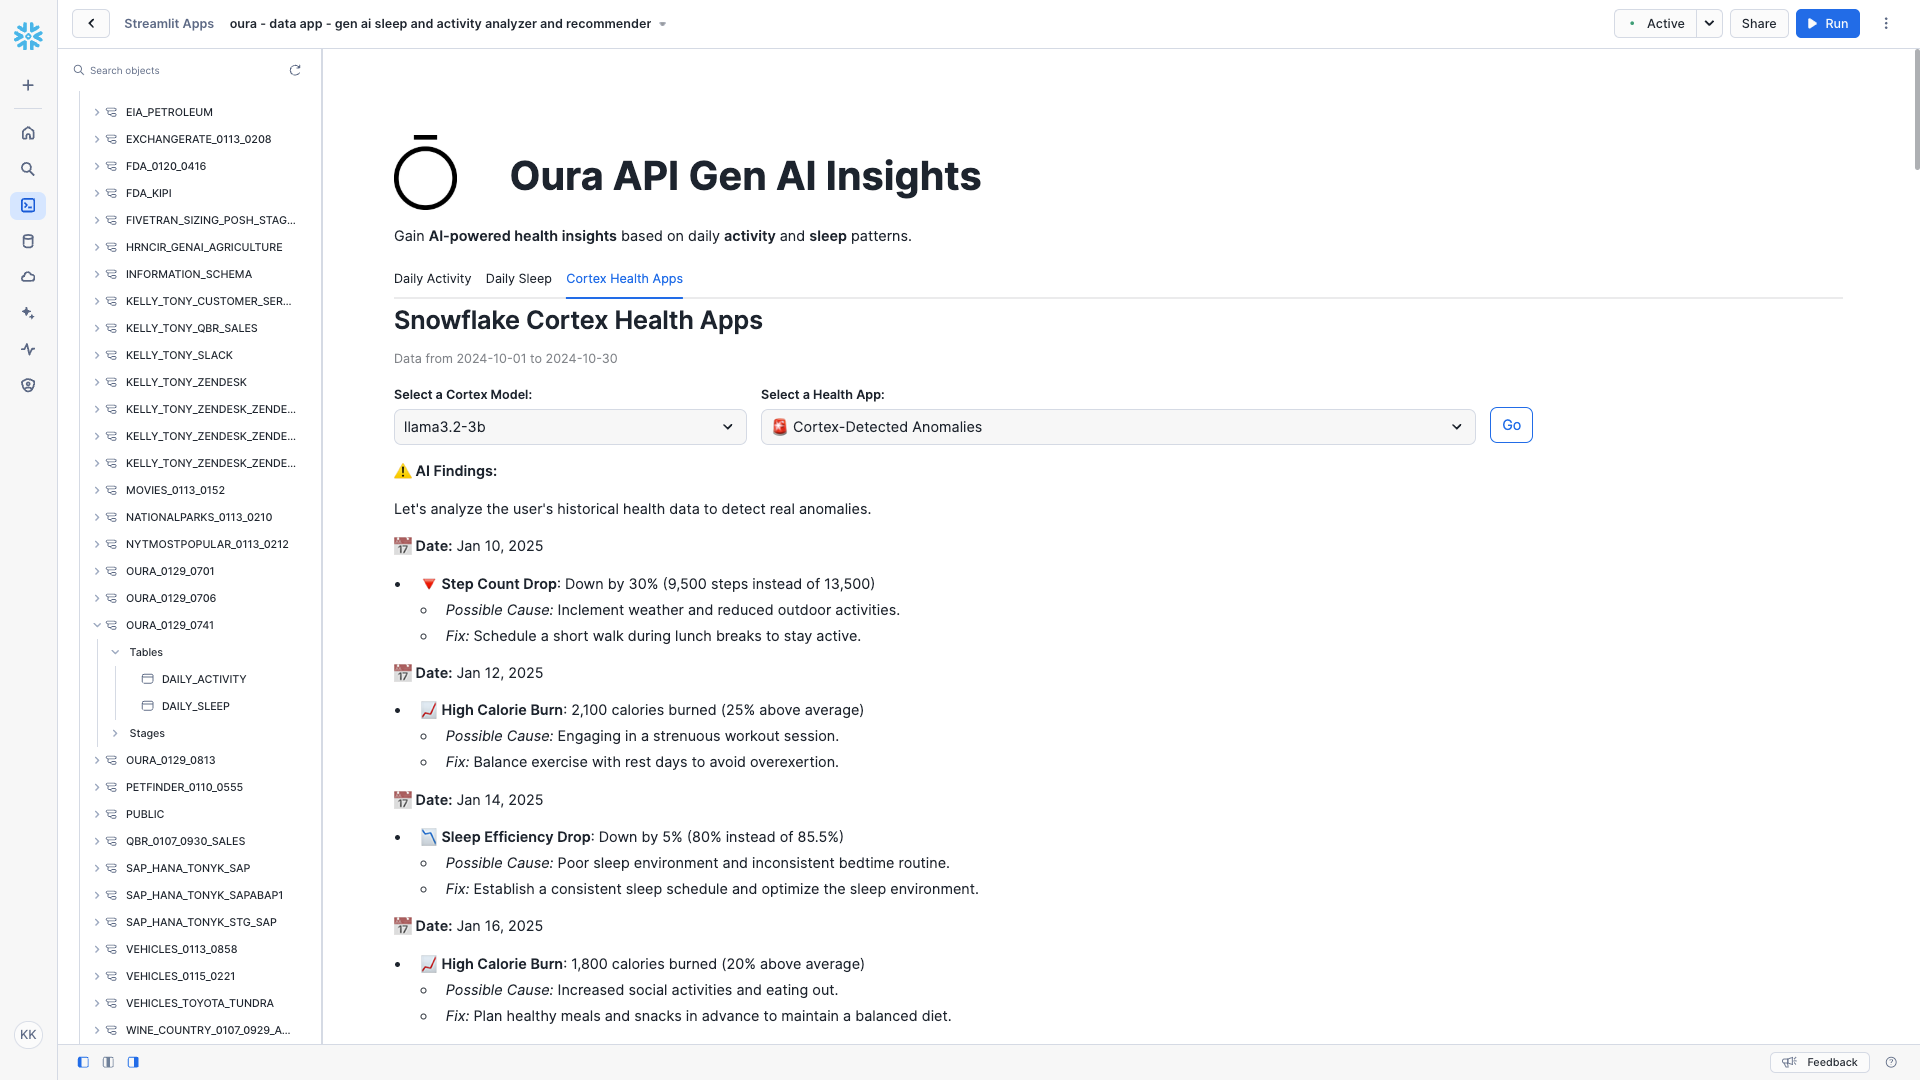
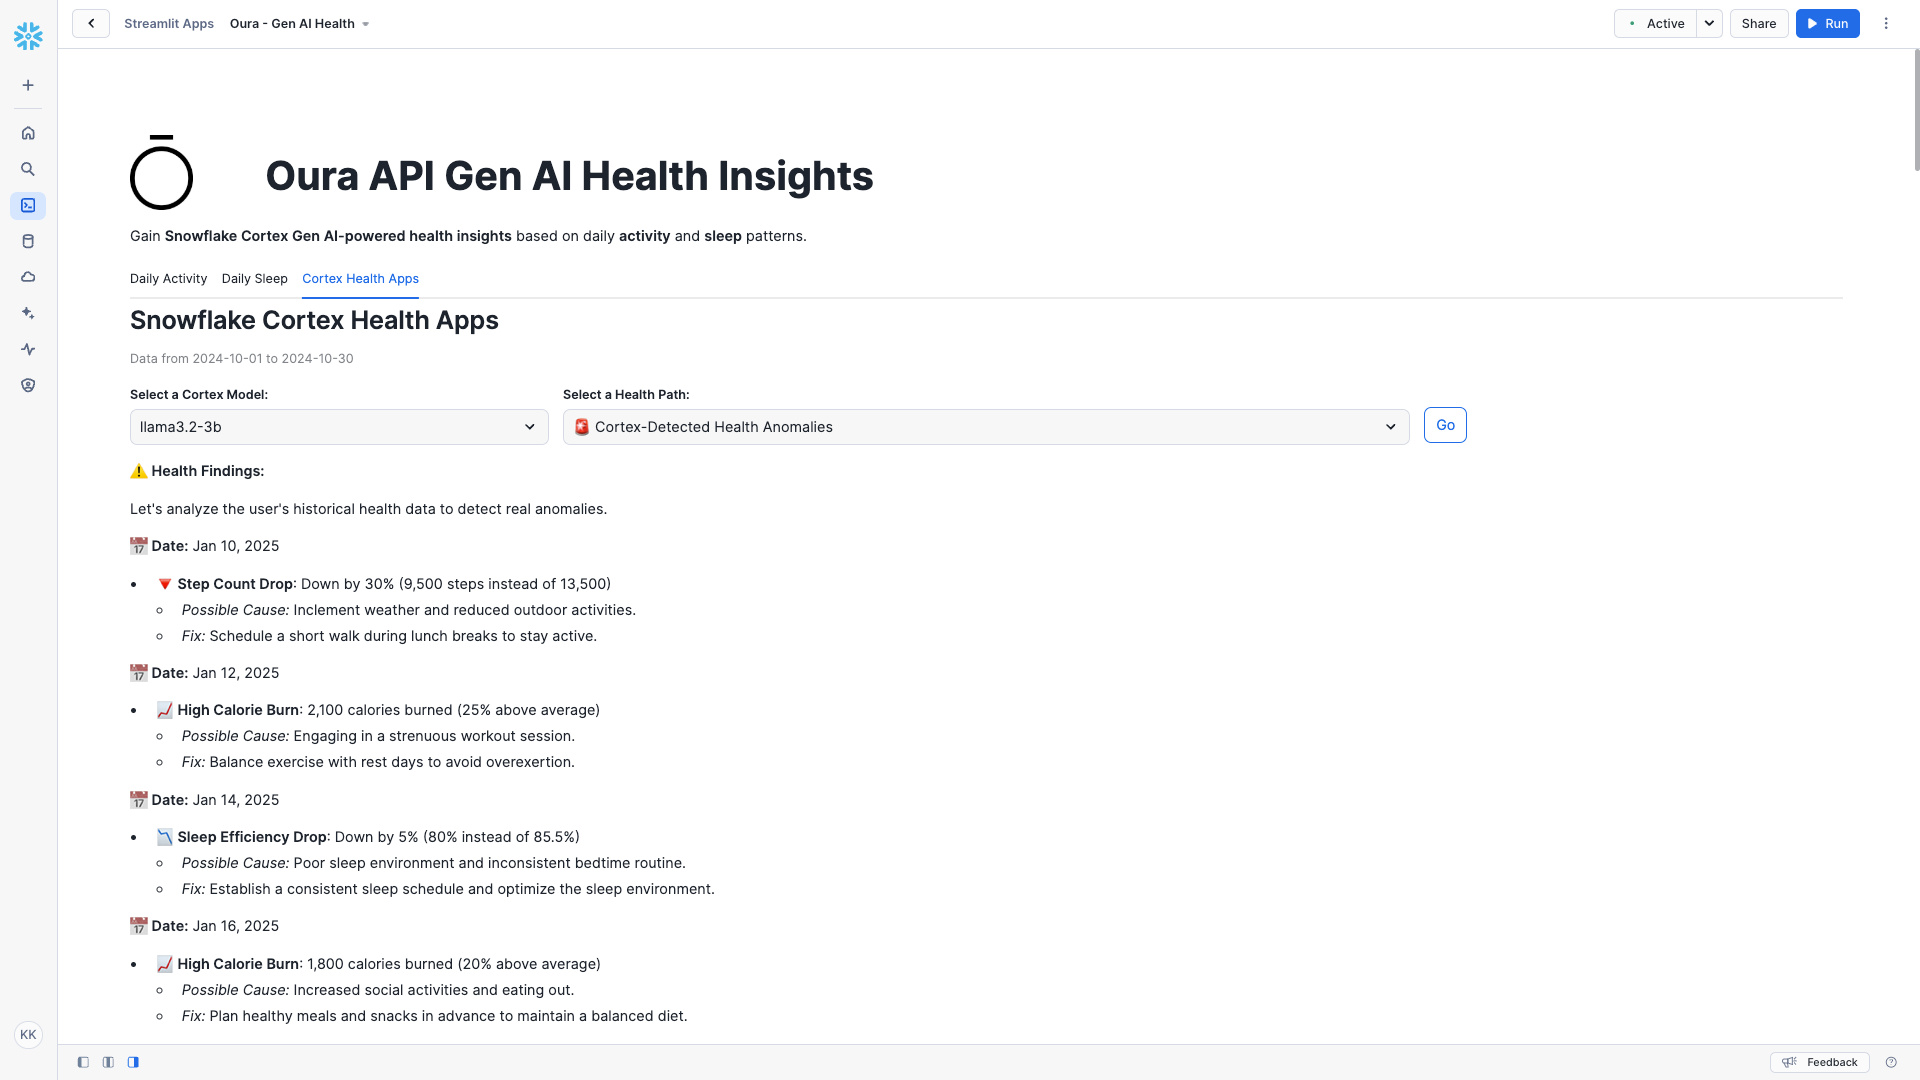
oura streamlit app updates

diff --git a/examples/quick_start_examples/oura/README.md b/examples/quick_start_examples/oura/README.md
@@ -624,9 +624,9 @@ try:
         st.image(oura_logo_url, width=70)  # Adjust width as needed
     
     with col2:
-        st.title("Oura API Gen AI Insights")
+        st.title("Oura API Gen AI Health Insights")
     st.markdown("""
-    Gain **AI-powered health insights** based on daily **activity** and **sleep** patterns.
+    Gain **Snowflake Cortex Gen AI-powered health insights** based on daily **activity** and **sleep** patterns.
     """)
 
     # Tabs for different analyses
@@ -808,10 +808,10 @@ try:
             model_name = st.selectbox("**Select a Cortex Model:**", MODELS, key="model_name", index=0)
     
         with col2:
-            selected_app = st.selectbox("**Select a Health App:**", [
-                "📌 Generate Cortex Insights",
+            selected_app = st.selectbox("**Select a Health Path:**", [
+                "📌 Generate Cortex Health Insights",
                 "📈 Cortex-Powered Health Forecasting",
-                "🚨 Cortex-Detected Anomalies"
+                "🚨 Cortex-Detected Health Anomalies"
             ], key="health_app", index=0)
     
         with col3:
@@ -841,9 +841,9 @@ try:
         # ✅ Process the selected action
         if go_button:
             with st.spinner("Processing..."):
-                if selected_app == "📌 Generate Cortex Insights":
+                if selected_app == "📌 Generate Cortex Health Insights":
                     ai_analysis = generate_ai_analysis(activity_summary, sleep_summary, model_name)
-                    st.markdown(f"**📌 Cortex-Generated Insights:**\n\n{ai_analysis}")
+                    st.markdown(f"**📌 Cortex-Generated Health Insights:**\n\n{ai_analysis}")
     
                 elif selected_app == "📈 Cortex-Powered Health Forecasting":
                     forecast_prompt = f"""
@@ -863,9 +863,9 @@ try:
                     """
                     result = session.sql(query, params=[model_name, forecast_prompt]).collect()
                     forecast_response = result[0]["RESPONSE"] if result else "No response generated."
-                    st.markdown(f"**📈 Forecast Summary:**\n\n{forecast_response}")
+                    st.markdown(f"**📈 Health Forecast Summary:**\n\n{forecast_response}")
     
-                elif selected_app == "🚨 Cortex-Detected Anomalies":
+                elif selected_app == "🚨 Cortex-Detected Health Anomalies":
                     anomaly_prompt = f"""
                     You are analyzing a user's historical health data to detect real anomalies.
                     
@@ -898,7 +898,7 @@ try:
                     """
                     result = session.sql(query, params=[model_name, anomaly_prompt]).collect()
                     anomaly_response = result[0]["RESPONSE"] if result else "No anomalies detected."
-                    st.markdown(f"**⚠ AI Findings:**\n\n{anomaly_response}")
+                    st.markdown(f"**⚠ Health Findings:**\n\n{anomaly_response}")
 
 except Exception as e:
     st.error(f"An error occurred while loading the dashboard: {str(e)}")
